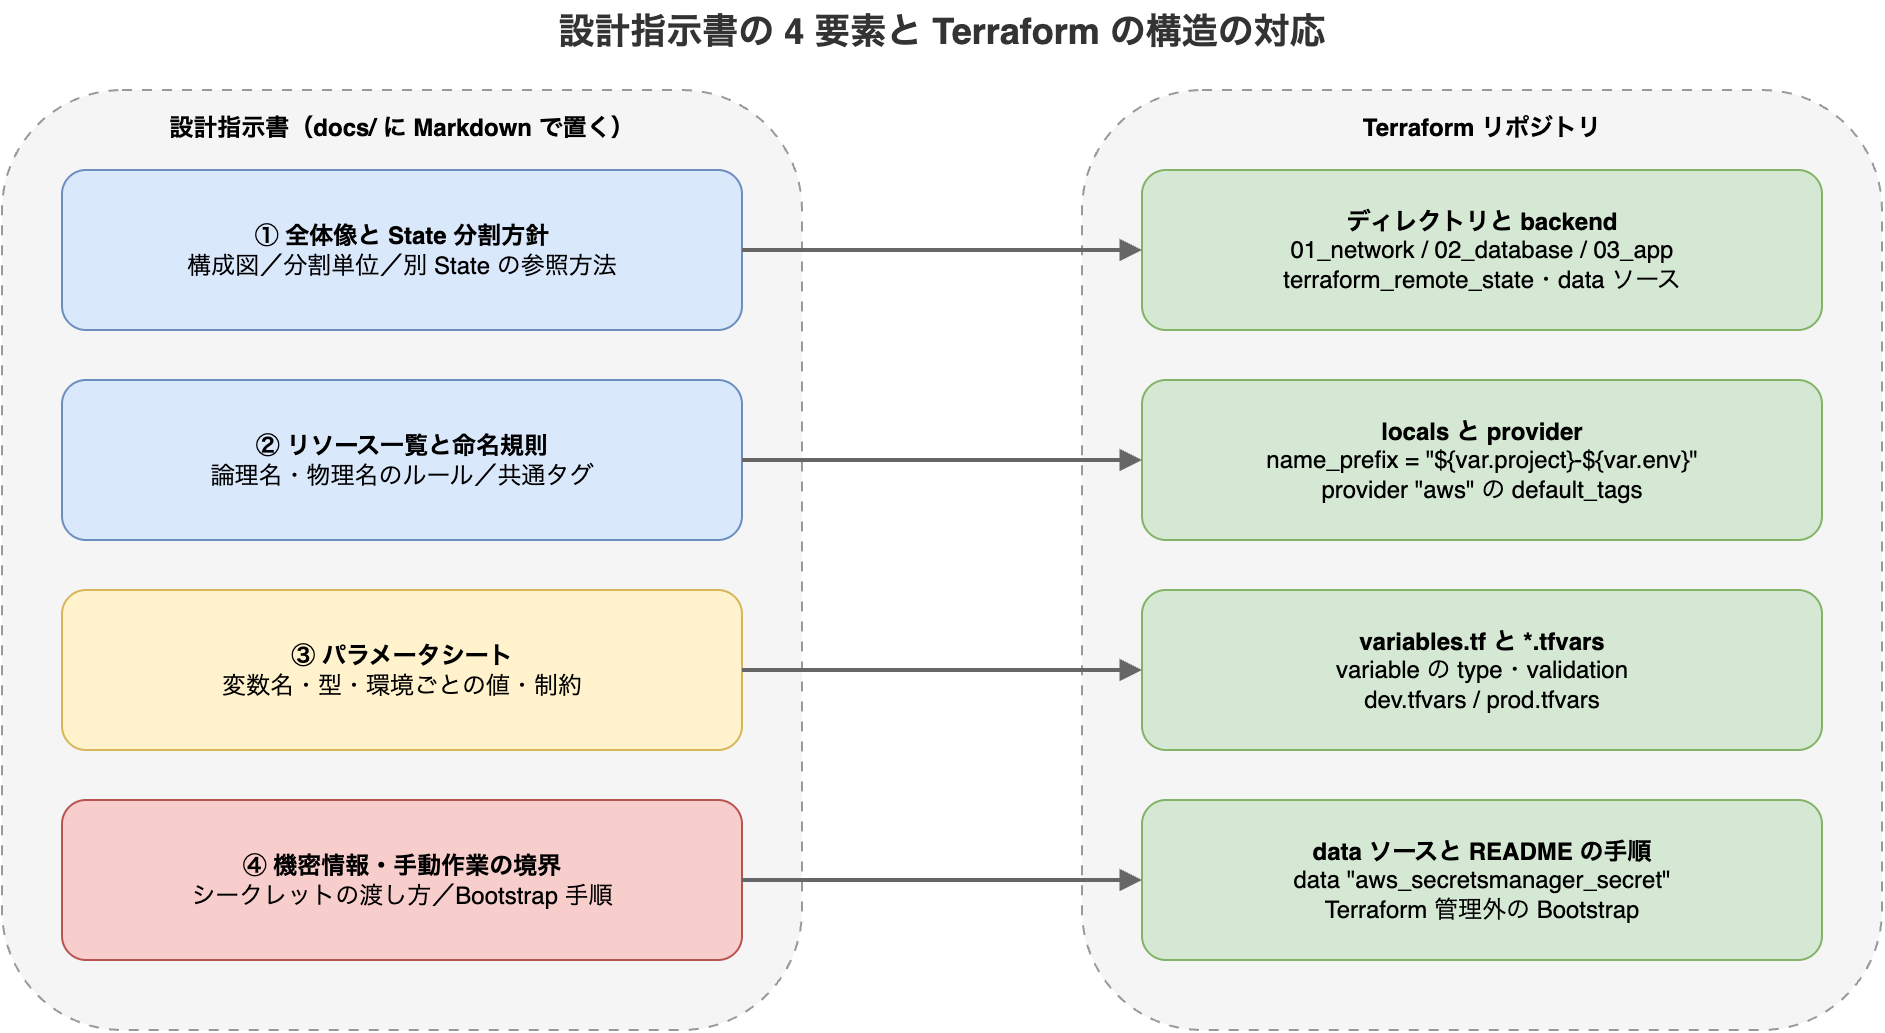
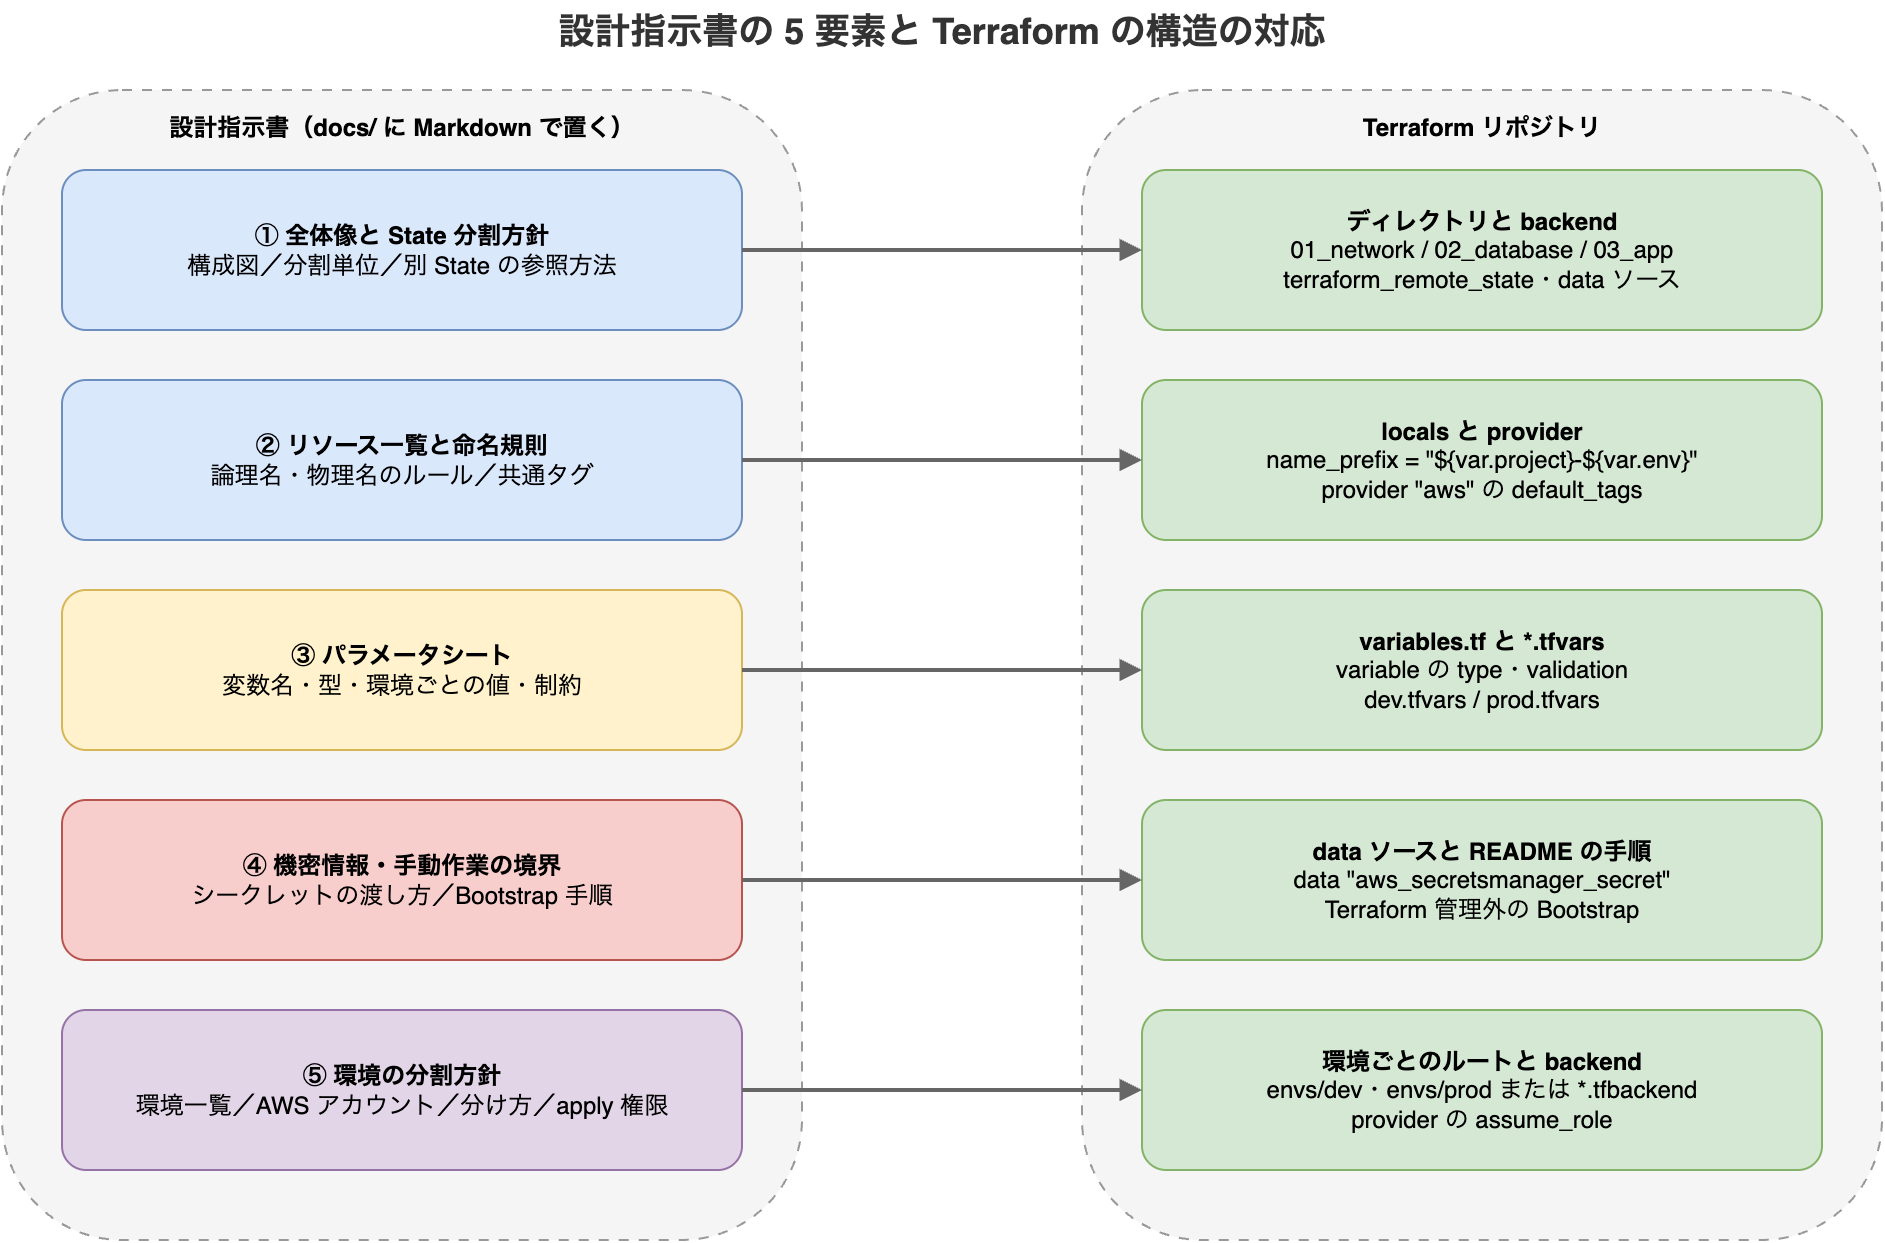
Add environment split (5th element) and operational guidance to Terraform design spec post
- ⑤ 環境の分割方針: アカウントとルートの対応、共有リソースのルート、State バックエンド、バージョン固定、3 つの分け方
- ① terraform_remote_state は State 全体の読み取り権限が要る点と SSM Parameter Store による公開
- 運用を見据えた指示: ignore_changes、共有モジュールと -target、plan の期待値、置き換えの下流影響、terraform test
- AI エージェントに apply / State 操作の承認ルールを渡す
- 構成図を 5 要素に更新

diff --git a/content/posts/2026/11/2026-11-14-terraform-aws-design-spec.md b/content/posts/2026/11/2026-11-14-terraform-aws-design-spec.md
@@ -1,5 +1,5 @@
 ---
-title: "Terraform 向け AWS 設計書の書き方 — パラメータシートを variables.tf に対応させる4要素と構成図ツール比較"
+title: "Terraform 向け AWS 設計書の書き方 — パラメータシートを variables.tf に対応させる5要素と構成図ツール比較"
 date: 2026-11-14
 lastmod: 2026-11-14
 slug: "terraform-aws-design-spec"
@@ -13,13 +13,13 @@ Terraform で AWS の IaC を実装するときは、設計工程から開発工
 
 結論から言うと、設計指示書は **Terraform のコード構造（ディレクトリ・変数・リソース）にそのまま対応づけられる形** で書くのが最も効率的です。マネジメントコンソールの画面キャプチャを並べた Excel や、文章中心の設計書では、実装者が「この項目はどの引数のことか」を毎回調べ直すことになります。
 
-この記事では、設計指示書に含めるべき 4 つの要素、記述のベストプラクティス、AI に実装させる場合の書き方、そして構成図を描くツールの選び方を整理します。
+この記事では、設計指示書に含めるべき 5 つの要素、記述のベストプラクティス、AI に実装させる場合の書き方、そして構成図を描くツールの選び方を整理します。
 
-## 設計指示書に含めるべき 4 つの要素
+## 設計指示書に含めるべき 5 つの要素
 
-実装者が迷わずコードに落とし込めるよう、設計指示書を次の 4 つのセクションに分けます。それぞれが Terraform リポジトリのどこに対応するかを図にすると次のとおりです。
+実装者が迷わずコードに落とし込めるよう、設計指示書を次の 5 つのセクションに分けます。それぞれが Terraform リポジトリのどこに対応するかを図にすると次のとおりです。
 
-![設計指示書の4要素（全体像とState分割方針、リソース一覧と命名規則、パラメータシート、機密情報と手動作業の境界）が、それぞれTerraformリポジトリのディレクトリとbackend、localsとproviderのdefault_tags、variables.tfとtfvars、dataソースとBootstrap手順に対応することを示した図](/blogs/images/terraform-aws-design-spec-mapping.png)
+![設計指示書の5要素（全体像とState分割方針、リソース一覧と命名規則、パラメータシート、機密情報と手動作業の境界、環境の分割方針）が、それぞれTerraformリポジトリのディレクトリとbackend、localsとproviderのdefault_tags、variables.tfとtfvars、dataソースとBootstrap手順、環境ごとのルートディレクトリとbackend設定に対応することを示した図](/blogs/images/terraform-aws-design-spec-mapping.png)
 
 ### ① アーキテクチャ全体像と State 分割方針
 
@@ -36,7 +36,7 @@ data "terraform_remote_state" "network" {
   backend = "s3"
   config = {
     bucket = "myproj-tfstate"
-    key    = "dev/01_network/terraform.tfstate"
+    key    = "dev/01_network/terraform.tfstate" # 環境ごとの切り替えは ⑤ で扱う
     region = "ap-northeast-1"
   }
 }
@@ -49,6 +49,27 @@ resource "aws_security_group" "app" {
 ```
 
 `terraform_remote_state` は参照先の State にあるルートモジュールの outputs を読む仕組みです。参照される側が何を `output` として公開するかも設計指示書に書いておくと、ディレクトリ間の契約がはっきりします。
+
+ただし `terraform_remote_state` には注意点があります。参照できるのは outputs だけですが、参照する側には **State ファイル全体の読み取り権限** が要ります。State には、たとえば RDS モジュールに渡した管理者パスワードのような機密値も平文で入っています。参照元が別チームや別リポジトリのスタックなら、共有したい識別子だけを SSM Parameter Store に公開し、読む側はパス単位に絞った IAM で `data "aws_ssm_parameter"` から引く方式のほうが安全です。
+
+```hcl
+# 公開する側（01_network）
+resource "aws_ssm_parameter" "vpc_id" {
+  name  = "/${var.project}/${var.env}/shared/vpc/id"
+  type  = "String"
+  value = aws_vpc.main.id
+}
+
+# 読む側（別スタック）
+data "aws_ssm_parameter" "vpc_id" {
+  name = "/${var.project}/${var.env}/shared/vpc/id"
+}
+```
+
+この方式を採る場合は、設計指示書に次の 2 点も書いておきます。
+
+- 公開するのは ID やエンドポイントなどの識別子だけで、パスワードやトークンは従来どおり Secrets Manager に置く。`SecureString` にしても、`data "aws_ssm_parameter"` で読めば復号した値が読む側の State に平文で残るため、機密値の受け渡しには使わない
+- ある環境に存在しない値は、空文字で埋めずにパラメータ自体を作らない。読む側の data ソースがエラーになることで「その環境には無い」と気付ける
 
 ### ② リソース一覧と命名規則
 
@@ -141,6 +162,140 @@ data "aws_secretsmanager_secret" "db" {
 
 ARN だけを参照するのは、`aws_secretsmanager_secret_version` などでシークレットの値そのものを読み込むと、その値が tfstate に平文で残るためです。そこで設計指示書には「値を読む data ソースは使わない」まで書いておくと安全です。
 
+### ⑤ 環境の分割方針（dev / stg / prod）
+
+①の State 分割が「何を一緒に変更するか」という縦の分割だとすると、環境の分割は「同じ構成を何面作るか」という横の分割です。ここを実装者任せにすると、環境ごとに backend の指定やアカウントの切り替え方がばらつき、後から揃えるのは大仕事になります。設計工程で次の項目を決めて指示します。
+
+| 項目 | 指示の例 |
+| --- | --- |
+| 環境の一覧と用途 | dev（開発者が自由に apply）、stg（本番相当の検証）、prod |
+| AWS アカウントとリージョン | 環境ごとに AWS アカウントを分けるか、1 つのアカウント内で名前だけで分けるか |
+| ルートディレクトリとアカウントの対応表 | どのディレクトリを apply すると、どのアカウントのどの backend に書かれるか |
+| 環境をまたいで共有するもの | CI・ビルド基盤、コンテナレジストリ、DNS など、どの環境にも属さないリソースを置くルート |
+| コード上の分け方 | 環境ごとのディレクトリ、共通コードと環境ごとの設定ファイル、workspace のどれにするか |
+| State の置き場所 | 環境ごとの S3 バケットとキー。バケットのバージョニング・暗号化と、ロックの方式 |
+| バージョンの固定 | Terraform と provider のバージョン制約。ルートごとに `.terraform.lock.hcl` をコミットする |
+| 環境間で違ってよいもの | 違いは変数の値だけに限る。環境によってリソースの有無が変わるなら、`count` などで使うフラグ変数として明示する。冗長構成（Multi-AZ の有無）や稼働時間（stg は夜間停止など）の違いもここに書く |
+| apply の権限と流れ | prod は CI からのみ apply する、dev → stg → prod の順に反映する |
+
+ルートディレクトリとアカウントの対応表は、アカウントを分けるなら必ず作ります。たとえば CI 用アカウントに作るべき IAM ロールを本番アカウント用のルートに書くと、エラーにならないまま別のアカウントに作られてしまいます。「どのアカウントに作るか」は「どのルートに書くか」と同じ問いだと、表で見える形にしておきます。
+
+環境をまたいで共有するリソースも、どれか 1 つの環境のルートに同居させず、専用のルートに分けます。stg のルートに置くと、stg を作り直すときに本番も使うビルド基盤まで巻き込みます。
+
+State のバケットのバージョニングは、モジュールの既定値で無効のまま作られがちです。State を壊したときに戻せるかどうかはここで決まるので、設計指示書で有効化を明示します。
+
+コード上の分け方には、主に 3 つの方式があります。
+
+**1. 環境ごとのディレクトリ**
+
+`envs/dev/01_network/`、`envs/prod/01_network/` のように環境ごとにルートモジュールを置き、中身は共通モジュールを呼ぶだけにします。backend と provider（assume する IAM ロール）がファイルにそのまま書かれるので、どの環境に apply しているかが一目で分かります。なお、次の例の `use_lockfile`（S3 だけで State をロックする設定）は Terraform 1.11 以降で正式機能です。それより前は DynamoDB テーブルでロックします。
+
+```hcl
+# envs/prod/01_network/main.tf
+terraform {
+  backend "s3" {
+    bucket       = "myproj-prod-tfstate"
+    key          = "01_network/terraform.tfstate"
+    region       = "ap-northeast-1"
+    use_lockfile = true
+  }
+}
+
+provider "aws" {
+  region = "ap-northeast-1"
+
+  assume_role {
+    role_arn = "arn:aws:iam::111111111111:role/terraform-apply"
+  }
+}
+
+module "network" {
+  source   = "../../../modules/network"
+  project  = "myproj"
+  env      = "prod"
+  vpc_cidr = "10.1.0.0/16"
+}
+```
+
+**2. 共通コードと環境ごとの設定ファイル**
+
+ルートモジュールは 1 つにして、backend の設定と変数の値だけを環境ごとのファイルに分けます。③の `envs/prod.tfvars` はこの方式を想定した例です。重複は減りますが、`init` と `apply` のたびに正しいファイルを指定するという運用ルールが要ります。
+
+```bash
+terraform init -reconfigure -backend-config=envs/prod.s3.tfbackend
+terraform apply -var-file=envs/prod.tfvars
+```
+
+**3. Terraform の CLI workspace**
+
+`terraform workspace select prod` で State を切り替え、コード内では `terraform.workspace` で環境名を参照します。手軽ですが、すべての workspace が同じ backend とコードを共有します。HashiCorp のドキュメントも、別々の認証情報やアクセス制御が要るデプロイには workspace は向かないとしています。AWS アカウントを分けて本番を隔離するなら、1 か 2 を選ぶのが無難です。
+
+どの方式でも、①の `terraform_remote_state` の参照先は環境に追従させる必要があります。変数を参照できない `backend` ブロックと違い、`terraform_remote_state` は通常の data ソースなので `config` に変数を書けます。①の例は、環境ごとに State のバケットを分けるなら次のように書きます。
+
+```hcl
+data "terraform_remote_state" "network" {
+  backend = "s3"
+  config = {
+    bucket = "${var.project}-${var.env}-tfstate"
+    key    = "01_network/terraform.tfstate"
+    region = "ap-northeast-1"
+  }
+}
+```
+
+## 運用を見据えて追加で指示しておくこと
+
+5 つの要素は「最初に作る」ための指示です。実際に運用を続けると、作った後の変更で事故が起きやすくなります。次の項目も設計指示書か、変更のたびに書く実行計画のテンプレートに入れておくと効果があります。
+
+### Terraform 以外が変更する属性を決めておく
+
+Auto Scaling や夜間停止のスクリプトが ECS サービスの `desired_count` を変える構成では、Terraform がそれを「ドリフト」とみなして apply のたびに元へ戻してしまいます。属性ごとに「誰が値を持つか」を決め、Terraform 以外が持つ属性は `lifecycle` の `ignore_changes` に入れるよう指示します。
+
+```hcl
+resource "aws_ecs_service" "web" {
+  # ...
+  desired_count = var.desired_count # 初期値だけ Terraform が決める
+
+  lifecycle {
+    # 以降は Auto Scaling と夜間停止が変更する
+    ignore_changes = [desired_count]
+  }
+}
+```
+
+### 共有モジュールの変更は、使っている全ルートで plan する
+
+`modules/` の共有モジュールを変えたら、そのモジュールを呼んでいるルートすべてで plan を取ることをルールにします。特定のリソースだけを `-target` で apply する運用が続いたルートには、他の人が共有モジュールに入れた変更が何か月も反映されずに残ることがあります。`-target` で絞る前に、絞らない plan で取りこぼしがないかを確かめます。
+
+`-target` は指定したリソースの依存先も plan に含めます。依存先のモジュールにドリフトがあると、それも一緒に apply されます。「絞ったから安全」とは限らないことも書き添えておきます。
+
+### plan の期待値を実行計画に書いてから apply する
+
+変更ごとの実行計画に、apply 前の plan で期待する結果（例: `3 to add, 0 to change, 0 to destroy`）を書いておき、一致したときだけ apply します。plan を読むときは、`Plan:` の行と `will be` / `must be replaced` の付いた行を見ます。「Objects have changed outside of Terraform」に出る項目は refresh で見つかった差分で、それだけでは apply で何かが変わるわけではありません。ここを読み違えると、不要に `-target` を重ねることになります。
+
+### 置き換え（replace）が起きる変更は、下流への影響を棚卸しする
+
+インスタンスの実体が入れ替わる変更は、Terraform の外にいる利用者を壊すことがあります。たとえば RDS の Blue/Green 切り替えでは、binlog の位置を覚えて CDC を続けている DMS のタスクが、切り替え後に再開できなくなることがあります（筆者が実際に踏んだ記録は [RDS の Blue/Green 切替で DMS が静かに死んだ話](/blogs/posts/2026/08/rds-blue-green-dms-cdc-incident/)）。こうした変更は「その実体を読んでいる下流」を一覧にして、止める順番と再開の手順を実行計画に含めるよう指示します。
+
+### パラメータシートの制約を `terraform test` で固定する
+
+③の「備考・制約」のうち、組み合わせで決まる制約（「A を 100 にするなら B は 200 以上」など）は、`validation` だけでなく `terraform test`（`.tftest.hcl`）で確かめられます。`mock_provider` を使えば AWS に接続せずに plan の結果を検証できるので、設計書の制約をそのまま受入テストにできます。次の例は、モジュール側の `minimum_healthy_percent` の `validation` が `maximum_percent` も参照して組み合わせを検査している前提です（他の変数を参照する `validation` は Terraform 1.9 以降で書けます）。
+
+```hcl
+# modules/ecs_service/tests/deployment.tftest.hcl
+mock_provider "aws" {}
+
+run "rejects_stuck_deployment" {
+  command = plan
+  variables {
+    minimum_healthy_percent = 100
+    maximum_percent         = 100
+  }
+  # 100 / 100 ではデプロイが進まないので validation で拒否されること
+  expect_failures = [var.minimum_healthy_percent]
+}
+```
+
 ## 記述における 3 つのベストプラクティス
 
 ### 1. 画面の項目名ではなく Terraform の引数名で書く
@@ -178,6 +333,8 @@ variables:
 ```
 
 人が読む表と AI が読む定義を別々に持つと乖離するので、YAML を正として表を生成するなど、どちらか一方を正本に決めておくのがおすすめです。
+
+AI エージェントにリポジトリを操作させるなら、実行してよいコマンドの線引きも指示に含めます。たとえば「`terraform validate` と `plan` は自由に実行してよいが、`apply` と State を書き換える操作（`state mv`・`import`・backend の移行など）は人間の明示的な承認なしに実行しない」と、エージェント向けの指示ファイル（`CLAUDE.md` や `AGENTS.md`）に書いておきます。どのディレクトリがどのアカウントに対応するかという⑤の対応表も、同じファイルから参照できるようにしておくと、エージェントが別アカウントに apply する事故を防げます。
 
 ## 構成図はどのツールで描くか
 
@@ -271,7 +428,9 @@ with Diagram("myproj-dev", show=False):
 
 ## まとめ
 
-- 設計指示書は「全体像と State 分割」「命名規則」「パラメータシート」「機密情報と手動作業の境界」の 4 要素に分け、それぞれを Terraform のディレクトリ・`locals`・`variables.tf`・`data` ソースに対応させる
+- 設計指示書は「全体像と State 分割」「命名規則」「パラメータシート」「機密情報と手動作業の境界」「環境の分割方針」の 5 要素に分け、それぞれを Terraform のディレクトリ・`locals`・`variables.tf`・`data` ソース・環境ごとのルートと backend 設定に対応させる
+- 環境（dev / stg / prod）の分け方は、AWS アカウントの分け方・State の置き場所・apply の権限とあわせて設計工程で決める。認証情報を分けて本番を隔離するなら、workspace ではなく環境ごとのディレクトリか設定ファイルで分ける
+- 運用に入ってからの事故を防ぐため、Terraform 以外が変更する属性、共有モジュール変更時の plan の範囲、plan の期待値、置き換え時の下流への影響も指示しておく
 - パラメータシートの列は Terraform の変数名・型・環境ごとの値に合わせ、画面の項目名ではなく引数名で書き、デフォルトのままの項目は書かない
 - 設計書は Markdown でリポジトリに置き、コードと同じ Pull Request で更新する。AI に実装させるなら YAML などの構造化データで書く
 - 構成図は draw.io（`.drawio.svg`）を基本に、テキスト管理を重視するなら Mermaid や Diagrams を選ぶ
